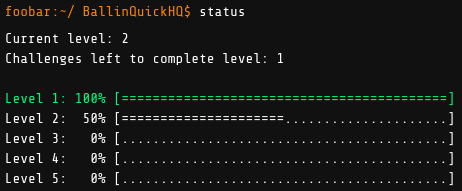
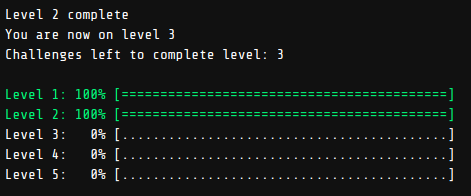
Add solution for challenge-2, level-2

diff --git a/src/l2/c2/solution/Solution.java b/src/l2/c2/solution/Solution.java
@@ -1,0 +1,80 @@
+package l2.c2.solution;
+
+class Fraction {
+    protected int numerator;            
+    protected int denominator;
+
+    // copy-constructor
+    public Fraction(Fraction fraction){
+        this.numerator = fraction.numerator;
+        this.denominator = fraction.denominator;
+    }
+
+    public Fraction(int numerator, int denominator) {
+        this.numerator = numerator;
+        this.denominator = denominator;
+    }
+
+    // euclidean algorithm finding the gcd of 2 numbers
+    private int gcd(){
+        int a = this.numerator, b = this.denominator, tmp;
+        while(b > 0){
+            tmp = b;
+            b = a % b;
+            a = tmp;
+        }
+
+        return a;
+    }
+    
+    public int toInt(){
+        return this.numerator/this.denominator;
+    }
+
+    public void reduce() {
+        int div = gcd();
+        if (div != 0) {
+            numerator /= div;
+            denominator /= div;
+        }
+    }
+
+}
+
+public class Solution{
+
+    public static int[] solution(int[] pegs){
+        boolean even;
+        int sum, j;
+        Fraction firstGearRadius, radius; 
+
+        // handle edge cases
+        if(pegs == null || pegs.length == 1)
+            return new int[]{-1, -1};
+
+        even = pegs.length % 2 != 0 ? false : true;
+        sum = even ? -pegs[0] + pegs[pegs.length-1] : -pegs[0] - pegs[pegs.length-1];
+
+        if(pegs.length > 2)
+            for(int i = 1; i < pegs.length - 1; i++)
+                sum += 2 * (i % 2 != 0 ? 1 : -1) * pegs[i];
+
+
+        // represent radius in the most simplified form of (numerator, denominator)
+        firstGearRadius = new Fraction(2 * sum, even ? 3 : 1);
+        firstGearRadius.reduce();
+
+        for(j = 0, radius = new Fraction(firstGearRadius); j < pegs.length-2; j++){
+            int centerDistance = pegs[j + 1] - pegs[j];
+            int numerator = centerDistance * radius.denominator - radius.numerator;
+            Fraction nextRadius = new Fraction(numerator, radius.denominator);
+
+            if(nextRadius.toInt() < 1 || radius.toInt() < 1)
+                return new int[]{-1, -1};
+            else
+                radius = nextRadius;
+        }
+
+        return new int[]{firstGearRadius.numerator, firstGearRadius.denominator};
+    }
+}

diff --git a/src/l2/c2/solution/Verify.java b/src/l2/c2/solution/Verify.java
@@ -1,0 +1,33 @@
+package l2.c2.solution;
+
+import java.util.ArrayList;
+import java.util.Arrays;
+import javafx.util.Pair;
+
+public class Verify{
+
+    public static void main(String[] args){
+        int passed;
+        ArrayList<Pair<int[], int[]>> tests = new ArrayList<>();
+
+        tests.add(new Pair<int[], int[]>(new int[]{4, 17, 50}, new int[]{-1, -1}));
+        tests.add(new Pair<int[], int[]>(new int[]{4, 30, 50}, new int[]{12, 1}));
+        
+        passed = 0;
+        for(Pair<int[], int[]> test : tests){
+            if(Arrays.equals(Solution.solution(test.getKey()), test.getValue())){
+                passed++;
+                System.out.println("\u001B[32mPassed");
+            }
+            else{
+                System.out.println("\u001B[0m" + Arrays.toString(Solution.solution(test.getKey())));
+                System.out.println("\u001B[31mFailed");
+            }
+        }
+
+        String result = passed < tests.size() ? "\u001B[1;31mFailure" : "\u001B[1;32mSuccess";
+
+        System.out.println("\u001B[0;1;4mResult\u001B[0m: " + result + " \u001B[0m" 
+                        + passed + "/" + tests.size() + " test cases passed");
+    }
+}

diff --git a/README.md b/README.md
@@ -20,7 +20,7 @@ foo-bar/src >> javac l1/solution/Verify.java
 foo-bar/src >> java l1.solution.Verify
 ```
 
-Until now, in each challenge, Google provides 2-3 out of the 5-6 total
+Until now, in each challenge, Google provides 2-3 out of the 5-10 total
 test cases as examples. The rest of them are hidden.  
 For each challenge, source files named **Verify.java**
 run the solution provided under the corresponding
